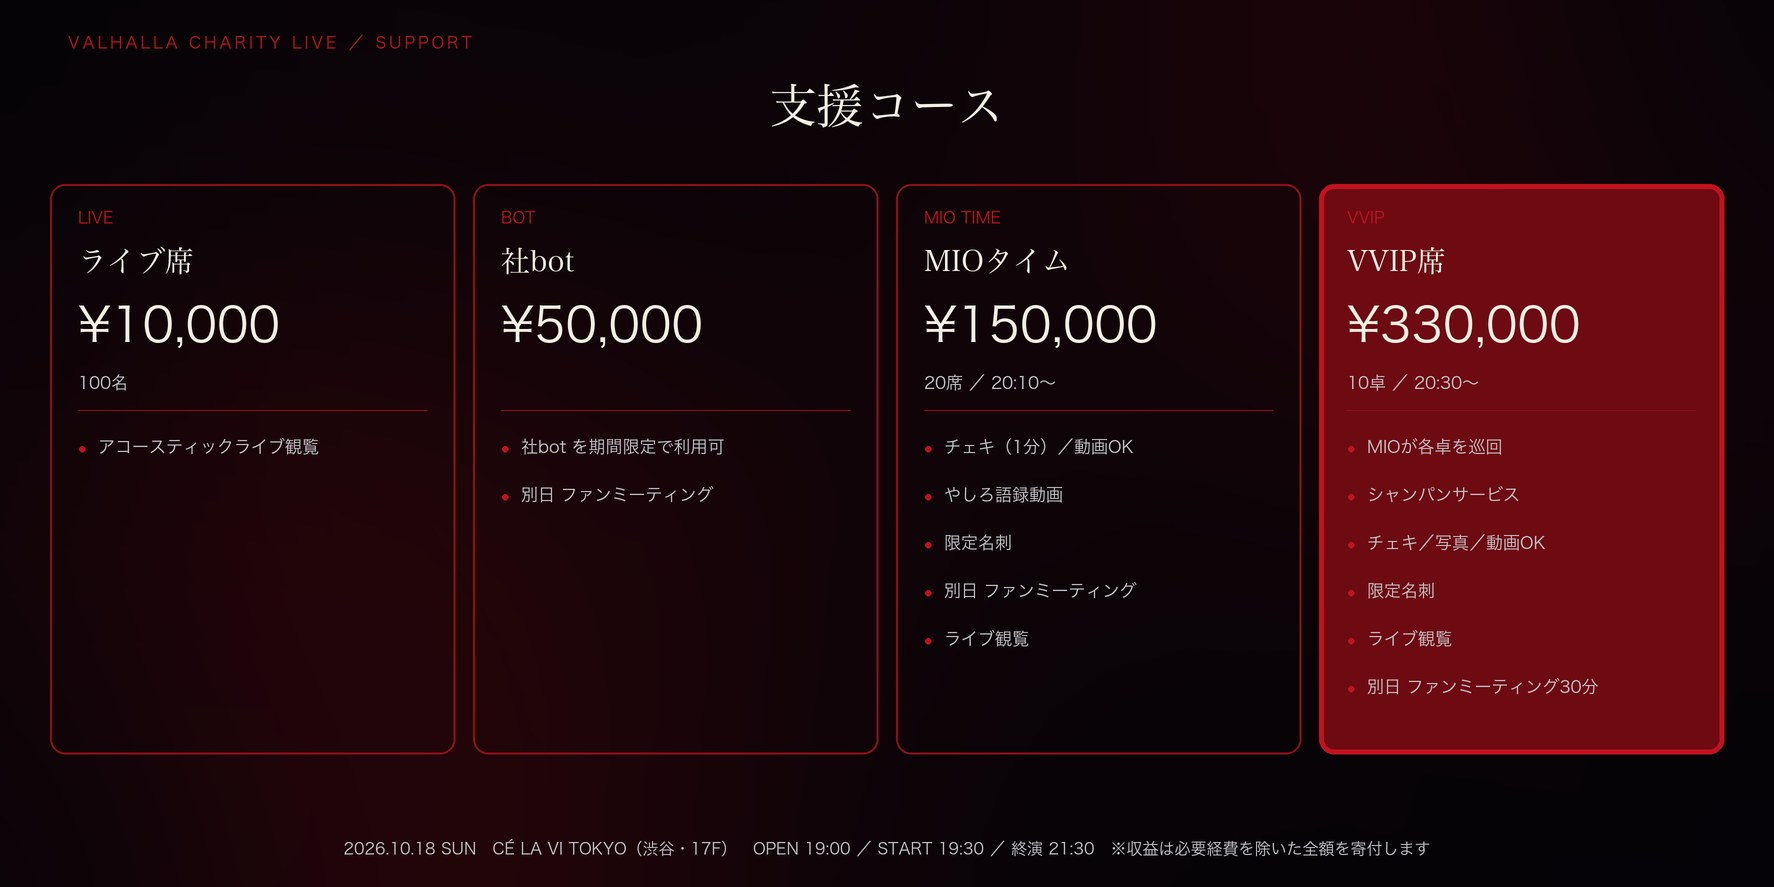
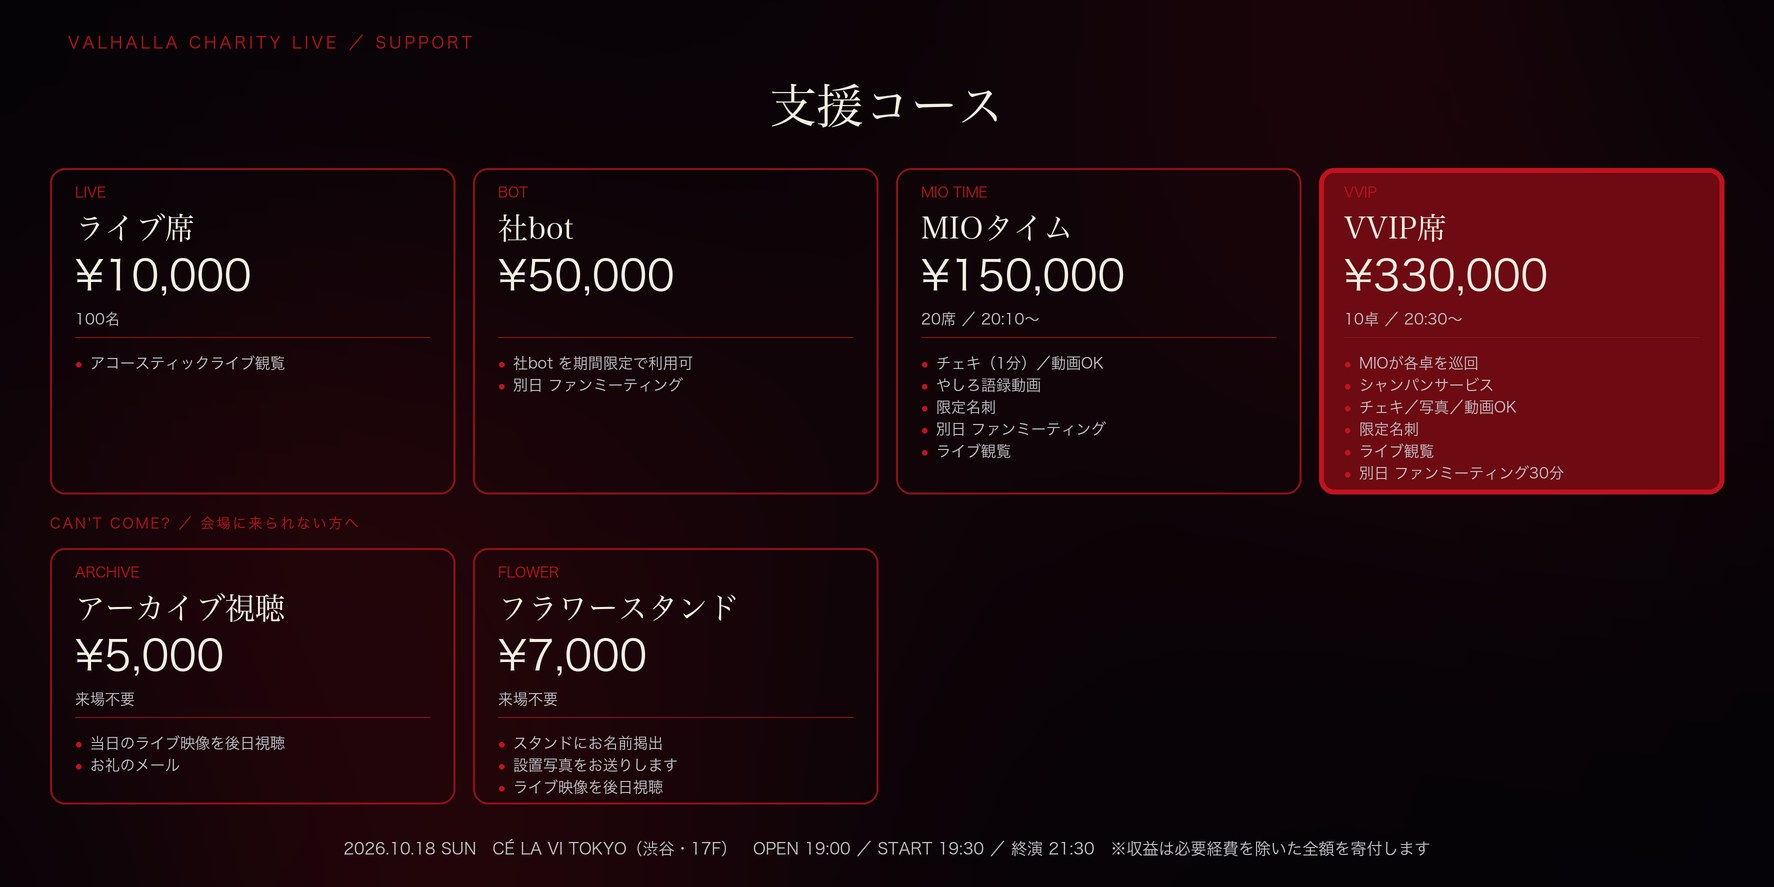
charity: add two no-attendance courses and lay out the 150-seat math
会場MAX150名という制約を受けて、来場を伴わないコースを新設。

- 【アーカイブ視聴】5,000円 … 当日のライブ映像を後日視聴
- 【フラワースタンド】7,000円 … 会場のスタンドにお名前掲出＋設置写真＋アーカイブ
  いずれも席を消費しないため数量無制限

returns_banner を2段組みに再構成(上段4枚=来場 / 下段2枚=来場不要)し、
下段に「CAN'T COME? ／ 会場に来られない方へ」の小見出しを追加。

あわせて定員150名の配分を計算し、VVIP1卓あたりの人数が決まらないと
社botの数量が決められないことを本文とブリーフに明記した。
社botを来場不要コースにする案も併記。

diff --git a/charity.html b/charity.html
@@ -535,6 +535,29 @@
   <div class="ret">
 
     <div class="r">
+      <div class="rn">アーカイブ視聴</div>
+      <div class="rp">¥5,000</div>
+      <div class="lim">来場不要 ／ 人数制限なし</div>
+      <ul>
+        <li>当日のライブ映像を後日オンラインで視聴<span class="tbd">【配信期間・調整中】</span></li>
+        <li>お礼のメール</li>
+      </ul>
+      <a class="pay-btn" data-pay="archive">このコースで支援する</a>
+    </div>
+
+    <div class="r">
+      <div class="rn">フラワースタンド</div>
+      <div class="rp">¥7,000</div>
+      <div class="lim">来場不要 ／ 人数制限なし</div>
+      <ul>
+        <li>会場に飾るフラワースタンドにお名前を掲出</li>
+        <li>設置した写真をお送りします</li>
+        <li>当日のライブ映像を後日視聴</li>
+      </ul>
+      <a class="pay-btn" data-pay="flower">このコースで支援する</a>
+    </div>
+
+    <div class="r">
       <div class="rn">ライブ席</div>
       <div class="rp">¥10,000</div>
       <div class="lim">100名</div>
@@ -696,6 +719,8 @@
 
   // ---- CAMPFIRE / 決済リンク：各コースのURLをここに貼るだけ
   const PAYLINK = {
+    archive: "", // アーカイブ視聴
+    flower:  "", // フラワースタンド
     live: "",   // ライブ席
     bot:  "",   // 社bot
     mio:  "",   // MIOタイム

diff --git a/assets/charity/create_returns_banner.py b/assets/charity/create_returns_banner.py
@@ -195,7 +195,8 @@ def fit_card_title_font(draw: ImageDraw.ImageDraw, titles: tuple[tuple[str, ...]
 def add_cards(base: Image.Image) -> None:
     margin, gap = 50, 18
     width = (W - margin * 2 - gap * 3) // 4
-    height, top = 570, 184
+    upper_top, upper_height = 168, 326
+    lower_top, lower_height = 548, 256
     cards = (
         ("LIVE", "ライブ席", "¥10,000", "100名",
          ("アコースティックライブ観覧",)),
@@ -207,15 +208,25 @@ def add_cards(base: Image.Image) -> None:
         ("VVIP", "VVIP席", "¥330,000", "10卓 ／ 20:30〜",
          ("MIOが各卓を巡回", "シャンパンサービス", "チェキ／写真／動画OK", "限定名刺",
           "ライブ観覧", "別日 ファンミーティング30分")),
+        ("ARCHIVE", "アーカイブ視聴", "¥5,000", "来場不要",
+         ("当日のライブ映像を後日視聴", "お礼のメール")),
+        ("FLOWER", "フラワースタンド", "¥7,000", "来場不要",
+         ("スタンドにお名前掲出", "設置写真をお送りします", "ライブ映像を後日視聴")),
     )
     d = ImageDraw.Draw(base)
-    kicker = face(SANS, 16)
-    title_font = face(MINCHO, 29)
-    amount_font = face(SANS, 48)
-    meta_font = face(SANS, 17)
-    bullet_font = face(SANS, 17)
+    # Every course shares the same type scale; only position changes by row.
+    kicker = face(SANS, 14)
+    title_font = fit_card_title_font(
+        d, tuple((card[1],) for card in cards), width - 56
+    )
+    amount_font = face(SANS, 42)
+    meta_font = face(SANS, 15)
+    bullet_font = face(SANS, 15)
     for index, (small, title, amount, note, bullets) in enumerate(cards):
-        x = margin + index * (width + gap)
+        row_index = index if index < 4 else index - 4
+        x = margin + row_index * (width + gap)
+        top = upper_top if index < 4 else lower_top
+        height = upper_height if index < 4 else lower_height
         emphasized = index == 3
         d.rounded_rectangle(
             sbox((x, top, x + width, top + height)), radius=15 * SCALE,
@@ -223,18 +234,27 @@ def add_cards(base: Image.Image) -> None:
             outline=(*CRIMSON, 255) if emphasized else (*DARK_CRIMSON, 235),
             width=(5 if emphasized else 2) * SCALE,
         )
-        d.text(spos((x + 28, top + 25)), small, font=kicker, fill=CRIMSON, anchor="la")
-        d.text(spos((x + 28, top + 62)), title, font=title_font, fill=CREAM, anchor="la")
-        d.text(spos((x + 28, top + 116)), amount, font=amount_font, fill=CREAM, anchor="la")
-        d.text(spos((x + 28, top + 190)), note, font=meta_font, fill=SILVER, anchor="la")
+        d.text(spos((x + 25, top + 17)), small, font=kicker, fill=CRIMSON, anchor="la")
+        d.text(spos((x + 25, top + 45)), title, font=title_font, fill=CREAM, anchor="la")
+        d.text(spos((x + 25, top + 86)), amount, font=amount_font, fill=CREAM, anchor="la")
+        d.text(spos((x + 25, top + 143)), note, font=meta_font, fill=SILVER, anchor="la")
         d.line(
-            spos((x + 28, top + 226, x + width - 28, top + 226)),
+            spos((x + 25, top + 169, x + width - 25, top + 169)),
             fill=(*DARK_CRIMSON, 220), width=SCALE,
         )
         for line_no, line in enumerate(bullets):
-            cy = top + 254 + line_no * 48
-            d.ellipse(sbox((x + 29, cy + 8, x + 35, cy + 14)), fill=CRIMSON)
-            d.text(spos((x + 48, cy)), line, font=bullet_font, fill=SILVER, anchor="la")
+            cy = top + 187 + line_no * 22
+            d.ellipse(sbox((x + 26, cy + 7, x + 31, cy + 12)), fill=CRIMSON)
+            d.text(spos((x + 40, cy)), line, font=bullet_font, fill=SILVER, anchor="la")
+
+    draw_tracked(
+        d,
+        (margin, 516),
+        "CAN'T COME? ／ 会場に来られない方へ",
+        face(SANS, 14),
+        CRIMSON,
+        2,
+    )
 
 
 def add_header(base: Image.Image) -> None:

diff --git a/docs/campfire-meeting-brief.md b/docs/campfire-meeting-brief.md
@@ -35,30 +35,54 @@
 | 20:10 | MIOタイム |
 | 21:30 | 終演 |
 
-## 3. 支援コース（4種）
+## 3. 支援コース（6種）
 
-| # | コース | 単価 | 数量 | 小計 | 主な内容 |
-|---|---|---:|---:|---:|---|
-| 1 | ライブ席 | **¥10,000** | 100名 | **¥1,000,000** | ライブ観覧 |
-| 2 | 社bot | **¥50,000** | **未定** | — | 社bot（期間限定）／別日ファンミーティング |
-| 3 | MIOタイム | **¥150,000** | 20席（20:10〜） | **¥3,000,000** | チェキ・やしろ語録動画・限定名刺・ファンミ・ライブ観覧 |
-| 4 | VVIP席 | **¥330,000** | 10卓（20:30〜） | **¥3,300,000** | 各卓巡回・シャンパン・チェキ・限定名刺・ファンミ30分・ライブ観覧 |
+### 来場を伴わないコース（席数の制約なし・無制限に販売可）
+
+| コース | 単価 | 内容 |
+|---|---:|---|
+| アーカイブ視聴 | **¥5,000** | 当日のライブ映像を後日視聴／お礼メール |
+| フラワースタンド | **¥7,000** | 会場のスタンドにお名前掲出／設置写真／アーカイブ視聴 |
+
+### 来場コース（合計が会場定員 **150名** に収まること）
+
+| コース | 単価 | 数量 | 小計 | 主な内容 |
+|---|---:|---:|---:|---|
+| ライブ席 | **¥10,000** | 100名 | **¥1,000,000** | ライブ観覧 |
+| 社bot | **¥50,000** | **未定** | — | 社bot（期間限定）／ファンミーティング |
+| MIOタイム | **¥150,000** | 20席（20:10〜） | **¥3,000,000** | チェキ・やしろ語録動画・限定名刺・ファンミ・ライブ観覧 |
+| VVIP席 | **¥330,000** | 10卓（20:30〜） | **¥3,300,000** | 各卓巡回・シャンパン・チェキ・限定名刺・ファンミ30分・ライブ観覧 |
+
+### 🚨 会場定員150名の配分（社botの数量が決まらない原因）
+
+| VVIP 1卓あたり | VVIP 計 | ライブ100＋MIO20＋VVIP | **社botに使える枠** |
+|---:|---:|---:|---:|
+| 1名 | 10名 | 130名 | **20名** |
+| 2名 | 20名 | 140名 | **10名** |
+| 3名 | 30名 | 150名 | **0名** |
+| 4名 | 40名 | 160名 | **定員オーバー** |
+
+**→ VVIP席の1卓あたりの人数を決めないと、社botの数量が決められない。**
+
+**提案：社botを「来場を伴わないコース」にする。**
+デジタルの特典なので席を消費する必要がなく、150名の枠を圧迫せずに販売できる。
+（制約はファンミーティングの定員のみ）
 
 ### 合計（満席時）
 
-- **社bot を除いた確定分：¥7,300,000**
-- 社bot の数量別の総額
+- **来場コースの確定分（社bot除く）：¥7,300,000**
 
-| 社bot 数量 | 社bot 小計 | **総額** |
-|---:|---:|---:|
-| 10名 | ¥500,000 | **¥7,800,000** |
-| 20名 | ¥1,000,000 | **¥8,300,000** |
-| 30名 | ¥1,500,000 | **¥8,800,000** |
-| 50名 | ¥2,500,000 | **¥9,800,000** |
+| 社bot の扱い・数量 | 社bot 小計 | **来場コース総額** |
+|---|---:|---:|
+| 来場あり・10名 | ¥500,000 | **¥7,800,000** |
+| 来場あり・20名 | ¥1,000,000 | **¥8,300,000** |
+| **来場不要・50名** | ¥2,500,000 | **¥9,800,000** |
+| **来場不要・100名** | ¥5,000,000 | **¥12,300,000** |
+
+**＋ アーカイブ視聴・フラワースタンドは無制限**（例：各100件なら +120万）
 
 **※ 5万円以上の3コース（社bot／MIOタイム／VVIP席）すべてに別日ファンミーティングが付く。**
-　 満席時のファンミ参加者は **30名＋社bot分**。社bot 50名なら **80名**になり、
-　 30分のグループセッションとしては成立しないため、**定員または回数の分割が必要。**
+　 満席時のファンミ参加者は **30名＋社bot分**。定員または回数の分割が必要。
 
 **※ 当日 MIO と直接話せるのは VVIP席のみ**（MIOタイムはチェキ・動画撮影）。
 
